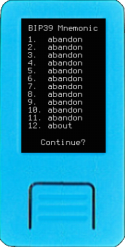
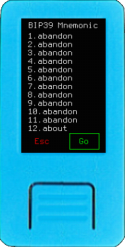
docs: add info about edit mnemonics after loading

Changed region(s): [[0.216, 0.085, 0.816, 0.6235]]

diff --git a/simulator/kruxsim/mocks/sensor.py b/simulator/kruxsim/mocks/sensor.py
@@ -104,6 +104,7 @@ def snapshot():
     time.sleep(THREAD_DROP_PERIOD)
     
     m = mock.MagicMock()
+    m.find_qrcodes.return_value = None
     if sequence_executor:
         if sequence_executor.camera_image is not None:
             frame = sequence_executor.camera_image

diff --git a/docs/getting-started/usage/loading-a-mnemonic.en.md b/docs/getting-started/usage/loading-a-mnemonic.en.md
@@ -88,9 +88,25 @@ You can retrieve mnemonics previously stored on device's internal flash or exter
 ## Wallet Loading
 ### Confirm Mnemonic Words
 <img src="../../../img/maixpy_m5stickv/load-mnemonic-seq-mnemonic-125.png" align="right">
-<img src="../../../img/maixpy_amigo/load-mnemonic-seq-double-mnemonic-150.png" align="right">
+<img src="../../../img/maixpy_amigo/load-mnemonic-seq-mnemonic-150.png" align="right">
 
-Once you have entered your mnemonic, you will be presented with the full list of words to confirm. If you see an asterisk (`*`) in the header, it means this is a [double mnemonic](generating-a-mnemonic.md/#double-mnemonic).
+
+Once you have entered your mnemonic, you will be presented with the full list of words to confirm. 
+
+<div style="clear: both"></div>
+
+<img src="../../../img/maixpy_m5stickv/load-mnemonic-seq-double-mnemonic-125.png" align="right">
+<img src="../../../img/maixpy_amigo/load-mnemonic-seq-double-mnemonic-150.png" align="right">
+If you see an asterisk (`*`) in the header, it means this is a [double mnemonic](generating-a-mnemonic.md/#double-mnemonic).
+
+<div style="clear: both"></div>
+
+### Edit Mnemonic - Optional
+
+<img src="../../../img/maixpy_m5stickv/load-mnemonic-seq-mnemonic-edited-wrong-125.png" align="right">
+<img src="../../../img/maixpy_amigo/load-mnemonic-seq-mnemonic-edited-wrong-150.png" align="right">
+
+If you make a mistake while loading a mnemonic, you can easily edit it. Simply touch or navigate to the word you want to change and replace it. Edited words will be highlighted in a different color. If the final word contains an invalid checksum, it will appear in red. If your checksum word is red, please review your mnemonic carefully, as there may be an error.
 
 <div style="clear: both"></div>
 
